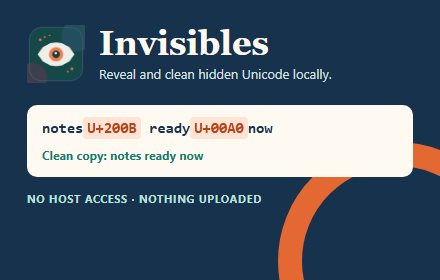
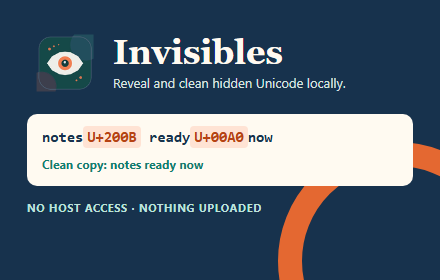
v1.2.1

Changed region(s): [[0.0591, 0.3714, 0.9455, 0.7714], [0.0591, 0.0857, 0.7977, 0.3429]]

diff --git a/store-assets/source/screenshot-review.html b/store-assets/source/screenshot-review.html
@@ -1,0 +1,47 @@
+<!doctype html>
+<html lang="en">
+<head>
+  <meta charset="utf-8">
+  <meta name="viewport" content="width=device-width,initial-scale=1">
+  <title>Invisibles review screenshot</title>
+  <style>
+    :root{--ink:#17324d;--paper:#fffaf1;--line:#dfd5c5;--teal:#147d70;--orange:#ef6c2f;--mute:#665f55}
+    *{box-sizing:border-box}html,body{width:100%;height:100%;margin:0;overflow:hidden}
+    body{background:var(--paper);color:var(--ink);font:16px/1.45 system-ui,-apple-system,"Segoe UI",sans-serif}
+    main{height:100%;display:grid;grid-template-columns:430px minmax(0,1fr);gap:54px;padding:42px 58px}
+    .panel-wrap{display:flex;flex-direction:column;justify-content:center}
+    .panel-label{margin:0 0 9px;color:var(--mute);font-size:12px;font-weight:750;letter-spacing:.08em;text-transform:uppercase}
+    iframe{width:100%;height:690px;border:1px solid #cbbda8;border-radius:18px;background:#faf9f6;box-shadow:0 18px 42px rgba(23,50,77,.14)}
+    .story{display:flex;flex-direction:column;justify-content:center;min-width:0}
+    .brand{display:flex;align-items:center;gap:16px;margin-bottom:26px}.brand img{width:82px;height:82px}
+    h1{margin:0 0 12px;font:700 46px/1.05 Georgia,serif;letter-spacing:-.025em}
+    .lead{margin:0;color:var(--mute);font-size:20px;max-width:650px}
+    .sample{margin-top:34px;padding:24px 26px;border:1px solid var(--line);background:#fff;border-radius:16px;box-shadow:0 14px 34px rgba(23,50,77,.08)}
+    .eyebrow{color:var(--orange);font-size:12px;font-weight:800;letter-spacing:.1em;text-transform:uppercase}
+    .sample-line{margin:12px 0 20px;font:700 23px/1.5 ui-monospace,Consolas,monospace}
+    .mark{padding:2px 6px;border-radius:5px;background:#fff0e8;color:#a63a0c}
+    .finding{display:grid;grid-template-columns:100px 1fr;gap:14px;padding:12px 0;border-top:1px solid var(--line)}
+    .finding code{color:var(--teal);font-weight:800}.finding span{color:var(--mute)}
+    .note{margin-top:22px;padding:15px 17px;border-left:4px solid var(--teal);background:#eef8f5;color:var(--mute)}
+    .note strong{color:var(--ink)}
+  </style>
+</head>
+<body>
+  <main>
+    <section class="panel-wrap">
+      <p class="panel-label">Actual extension side panel</p>
+      <iframe src="/__invisibles_capture_panel.html?mode=review" title="Invisibles extension side panel"></iframe>
+    </section>
+    <section class="story">
+      <div class="brand"><img src="../../extension/icons/icon128.png" alt=""><div><h1>Inspect before you change anything.</h1><p class="lead">Every finding gets a category and code point. Cleaning stays under your control.</p></div></div>
+      <div class="sample">
+        <div class="eyebrow">A copy-paste problem made visible</div>
+        <div class="sample-line">user<span class="mark">U+200B</span>_id, name<span class="mark">U+00A0</span></div>
+        <div class="finding"><code>U+200B</code><span>A zero-width space inside the field name.</span></div>
+        <div class="finding"><code>U+00A0</code><span>A non-breaking space that looks ordinary.</span></div>
+      </div>
+      <div class="note"><strong>Review first.</strong> Nothing changes until you press Clean it.</div>
+    </section>
+  </main>
+</body>
+</html>

diff --git a/store-assets/capture.js b/store-assets/capture.js
@@ -153,11 +153,11 @@ async function capture(browser, port, source, destination, width, height) {
   await runChrome(browser, args, profile, false);
 }
 
-async function verifyScreenshotPage(browser, port) {
+async function verifyScreenshotPage(browser, port, source) {
   const profile = path.join(os.tmpdir(), 'invisibles-asset-' + process.pid + '-verify');
   const args = chromeArgs(profile, 1280, 800).concat([
     '--dump-dom',
-    'http://127.0.0.1:' + port + '/store-assets/source/screenshot.html'
+    'http://127.0.0.1:' + port + source
   ]);
   const output = await runChrome(browser, args, profile, true);
   if (!/data-capture-ready=["']true["']/.test(output)) {
@@ -177,17 +177,28 @@ async function main() {
   const server = http.createServer(serve);
   await new Promise((resolve) => server.listen(0, '127.0.0.1', resolve));
   const port = server.address().port;
-  const screenshot = path.join(outputDir, 'screenshot-1280x800.png');
+  const screenshots = [
+    {
+      source: '/store-assets/source/screenshot.html',
+      file: path.join(outputDir, 'screenshot-1280x800.png')
+    },
+    {
+      source: '/store-assets/source/screenshot-review.html',
+      file: path.join(outputDir, 'screenshot-review-1280x800.png')
+    }
+  ];
   const promo = path.join(outputDir, 'promo-440x280.png');
   try {
-    await verifyScreenshotPage(browser, port);
-    await capture(browser, port, '/store-assets/source/screenshot.html', screenshot, 1280, 800);
+    for (const screenshot of screenshots) {
+      await verifyScreenshotPage(browser, port, screenshot.source);
+      await capture(browser, port, screenshot.source, screenshot.file, 1280, 800);
+    }
     await capture(browser, port, '/store-assets/source/promo.html', promo, 440, 280);
   } finally {
     await new Promise((resolve) => server.close(resolve));
   }
 
-  [screenshot, promo].forEach((file) => {
+  [...screenshots.map((screenshot) => screenshot.file), promo].forEach((file) => {
     const size = pngSize(file);
     console.log(
       path.relative(root, file).replace(/\\/g, '/') + ' ' + size.width + 'x' + size.height +

diff --git a/store-assets.test.js b/store-assets.test.js
@@ -18,8 +18,10 @@ function checkPng(relative, width, height) {
 }
 
 const screenshotHash = checkPng('store-assets/screenshot-1280x800.png', 1280, 800);
+const reviewHash = checkPng('store-assets/screenshot-review-1280x800.png', 1280, 800);
 const promoHash = checkPng('store-assets/promo-440x280.png', 440, 280);
 assert.notStrictEqual(screenshotHash, promoHash);
+assert.strictEqual(new Set([screenshotHash, reviewHash, promoHash]).size, 3);
 
 const capture = fs.readFileSync(path.join(__dirname, 'store-assets', 'capture.js'), 'utf8');
 const bootstrap = fs.readFileSync(
@@ -30,8 +32,10 @@ assert.match(capture, /path\.join\(root, 'extension', 'sidepanel\.html'\)/);
 assert.match(capture, /path\.join\(root, 'extension', 'core\.js'\)/);
 assert.match(capture, /path\.join\(root, 'extension', 'popup\.js'\)/);
 assert.ok(capture.includes('data-capture-ready'));
+assert.ok(capture.includes('screenshot-review.html'));
 assert.ok(bootstrap.includes("document.getElementById('in')"));
 assert.ok(bootstrap.includes("document.getElementById('clean')"));
+assert.ok(bootstrap.includes("mode === 'review'"));
 
 const listing = fs.readFileSync(path.join(__dirname, 'store-assets', 'listing.txt'), 'utf8');
 assert.match(listing, /no host access/i);
@@ -45,4 +49,5 @@ assert.ok(!promoSource.includes('readynow'));
 
 console.log('store assets ok');
 console.log('screenshot sha256 ' + screenshotHash);
+console.log('review screenshot sha256 ' + reviewHash);
 console.log('promo sha256 ' + promoHash);

diff --git a/store-assets/source/promo.html b/store-assets/source/promo.html
@@ -7,8 +7,8 @@
     *{box-sizing:border-box}html,body{width:440px;height:280px;margin:0;overflow:hidden}
     body{position:relative;background:#17324d;color:#fffaf1;font-family:system-ui,-apple-system,"Segoe UI",sans-serif;padding:25px 27px}
     body:after{content:"";position:absolute;width:190px;height:190px;border:24px solid #ef6c2f;border-radius:50%;right:-76px;bottom:-100px;opacity:.95}
-    header{display:flex;align-items:center;gap:14px}img{width:58px;height:58px}h1{margin:0;font:700 34px/1 Georgia,serif}
-    p{margin:5px 0 0;color:#d9e4e1;font-size:13px}.sample{position:relative;z-index:1;margin-top:22px;padding:14px 15px;background:#fffaf1;color:#17324d;border-radius:10px}
+    header{display:flex;align-items:center;gap:10px}img{width:76px;height:76px}h1{margin:0;font:700 34px/1 Georgia,serif}
+    p{margin:5px 0 0;color:#d9e4e1;font-size:13px}.sample{position:relative;z-index:1;margin-top:13px;padding:14px 15px;background:#fffaf1;color:#17324d;border-radius:10px}
     .before{font:700 15px/1.3 ui-monospace,Consolas,monospace}.code{color:#b74213;background:#ffe3d4;border-radius:4px;padding:2px 4px}.after{margin-top:8px;color:#147d70;font-size:12px;font-weight:750}
     .foot{margin-top:14px;color:#bfe3dc;font-size:11px;font-weight:700;letter-spacing:.06em;text-transform:uppercase}
   </style>

diff --git a/extension/popup.js b/extension/popup.js
@@ -1,6 +1,4 @@
-// Lives in its own file because MV3's default extension-page CSP is
-// script-src 'self', which refuses an inline <script> outright. Inlined, none of
-// this ran: the popup rendered and every control was dead.
+// MV3's default extension-page CSP requires this controller to be external.
 (function(){
   var I=window.Invisibles;
   var inEl=document.getElementById('in'),cleanBtn=document.getElementById('clean'),
@@ -27,9 +25,7 @@
     var before=inEl.value, t=I.clean(before);
     if(norm.checked) t=I.normalizePunctuation(t);
     out.value=t; out.hidden=false; copyBtn.hidden=false;
-    // A look-alike space becomes a real space, so it never shows up in a length
-    // difference. Reporting only that difference read as "found 4, removed 2",
-    // which looks like it missed two.
+    // Report replacements separately because they do not change string length.
     var r=I.scan(before), swapped=r.counts.space||0, deleted=r.total-swapped, parts=[];
     if(deleted) parts.push(deleted+' removed');
     if(swapped) parts.push(swapped+' turned into a normal space');

diff --git a/store-assets/source/capture-bootstrap.js b/store-assets/source/capture-bootstrap.js
@@ -5,12 +5,18 @@
   var clean = document.getElementById('clean');
   var output = document.getElementById('out');
   var summary = document.getElementById('summary');
+  var mode = new URLSearchParams(location.search).get('mode') || 'clean';
 
-  input.value = 'Release\u200b notes\u00a0ready \u2066for review\u2069.';
+  input.value = mode === 'review'
+    ? 'user\u200b_id,name\u00a0\nalpha,1'
+    : 'Release\u200b notes\u00a0ready \u2066for review\u2069.';
   input.dispatchEvent(new Event('input', { bubbles: true }));
-  clean.click();
+  if (mode !== 'review') clean.click();
 
-  if (!/hidden character/i.test(summary.textContent) || output.hidden || !output.value) {
+  var cleanStateReady = mode === 'review'
+    ? !clean.disabled && output.hidden
+    : !output.hidden && Boolean(output.value);
+  if (!/hidden character/i.test(summary.textContent) || !cleanStateReady) {
     parent.document.documentElement.setAttribute('data-capture-error', 'The shipped side panel did not render the sample.');
     return;
   }

diff --git a/store-assets/source/screenshot.html b/store-assets/source/screenshot.html
@@ -10,7 +10,7 @@
     body{background:var(--paper);color:var(--ink);font:16px/1.45 system-ui,-apple-system,"Segoe UI",sans-serif}
     main{height:100%;display:grid;grid-template-columns:minmax(0,1fr) 430px;gap:42px;padding:42px 54px}
     .story{display:flex;flex-direction:column;justify-content:center;min-width:0}
-    .brand{display:flex;align-items:center;gap:18px;margin-bottom:34px}.brand img{width:72px;height:72px}
+    .brand{display:flex;align-items:center;gap:18px;margin-bottom:34px}.brand img{width:88px;height:88px}
     h1{margin:0 0 10px;font:700 48px/1.04 Georgia,serif;letter-spacing:-.025em}
     .lead{margin:0;color:var(--mute);font-size:20px;max-width:650px}
     .sample{margin-top:38px;padding:25px 28px;border:1px solid var(--line);background:#fff;border-radius:16px;box-shadow:0 14px 34px rgba(23,50,77,.08)}

diff --git a/tools/make_icons.py b/tools/make_icons.py
@@ -8,11 +8,12 @@ from PIL import Image, ImageDraw
 ROOT = Path(__file__).resolve().parents[1]
 OUTPUT = ROOT / "extension" / "icons"
 SIZES = (16, 48, 128)
+ARTWORK_SIZE = 512
+SAFE_AREA_RATIO = 0.75
 
 
-def make_master() -> Image.Image:
-    size = 512
-    image = Image.new("RGBA", (size, size), (0, 0, 0, 0))
+def make_artwork() -> Image.Image:
+    image = Image.new("RGBA", (ARTWORK_SIZE, ARTWORK_SIZE), (0, 0, 0, 0))
     draw = ImageDraw.Draw(image, "RGBA")
 
     draw.rounded_rectangle((18, 18, 494, 494), radius=112, fill=(21, 73, 72, 255))
@@ -33,11 +34,23 @@ def make_master() -> Image.Image:
     return image
 
 
+def icon_for_size(artwork: Image.Image, size: int) -> Image.Image:
+    content_size = round(size * SAFE_AREA_RATIO)
+    offset = (size - content_size) // 2
+    content = artwork.resize((content_size, content_size), Image.Resampling.LANCZOS)
+    icon = Image.new("RGBA", (size, size), (0, 0, 0, 0))
+    icon.alpha_composite(content, (offset, offset))
+    expected = (offset, offset, offset + content_size, offset + content_size)
+    if icon.getbbox() != expected:
+        raise RuntimeError(f"icon{size}.png exceeds its {content_size}x{content_size} safe area")
+    return icon
+
+
 def main() -> None:
     OUTPUT.mkdir(parents=True, exist_ok=True)
-    master = make_master()
+    artwork = make_artwork()
     for size in SIZES:
-        icon = master.resize((size, size), Image.Resampling.LANCZOS)
+        icon = icon_for_size(artwork, size)
         icon.save(OUTPUT / f"icon{size}.png", format="PNG", optimize=True)
     print("generated Invisibles icons: " + ", ".join(str(size) for size in SIZES))
 

diff --git a/store-assets/README.md b/store-assets/README.md
@@ -8,7 +8,7 @@ python scripts/package.py --check
 python tests/package.test.py
 ```
 
-Upload `dist/invisibles-1.2.0.zip` and compare its SHA-256 value with the checked checksum sidecar.
+Upload `dist/invisibles-1.2.1.zip` and compare its SHA-256 value with the checked checksum sidecar.
 
 Use the copy in `listing.txt`, category `Tools`, and the public privacy URL:
 
@@ -19,9 +19,12 @@ The privacy dashboard should disclose that users paste text into the extension a
 ## Images
 
 - `screenshot-1280x800.png` is the main product screenshot.
+- `screenshot-review-1280x800.png` shows the review-before-cleaning state.
 - `promo-440x280.png` is the small promotional tile.
 
-The screenshot embeds the shipped `extension/sidepanel.html`, runs the shipped `core.js` and `popup.js`, and fills it with a fictional local sample. It does not use a signed-in browser profile or real user text.
+The screenshots embed the shipped `extension/sidepanel.html`, run the shipped
+`core.js` and `popup.js`, and fill the panel with fictional local samples.
+They do not use a signed-in browser profile or real user text.
 
 Rebuild and verify the PNG files with local Chrome:
 
